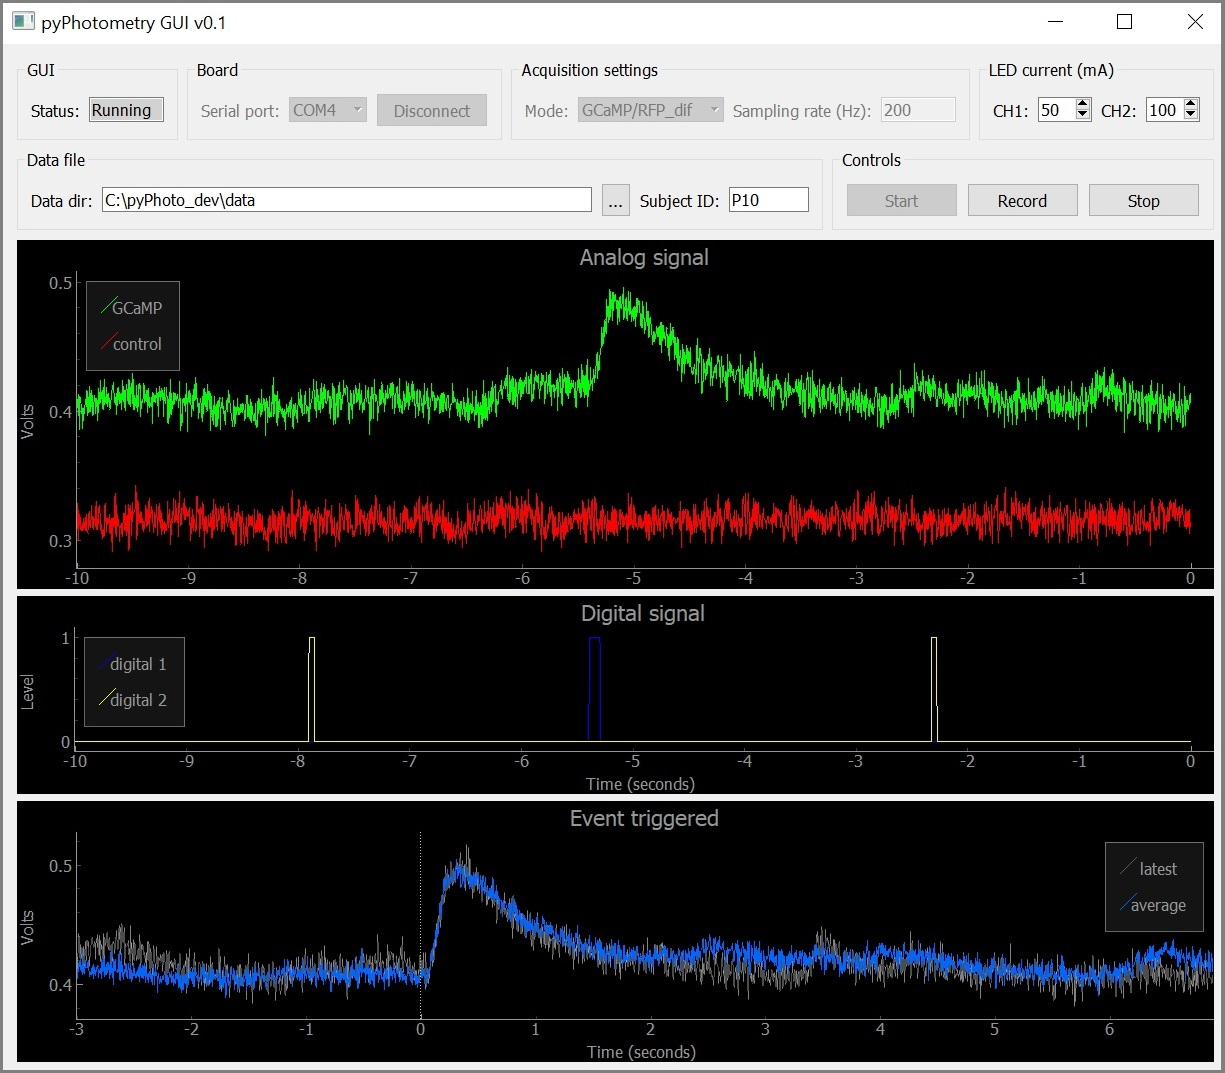
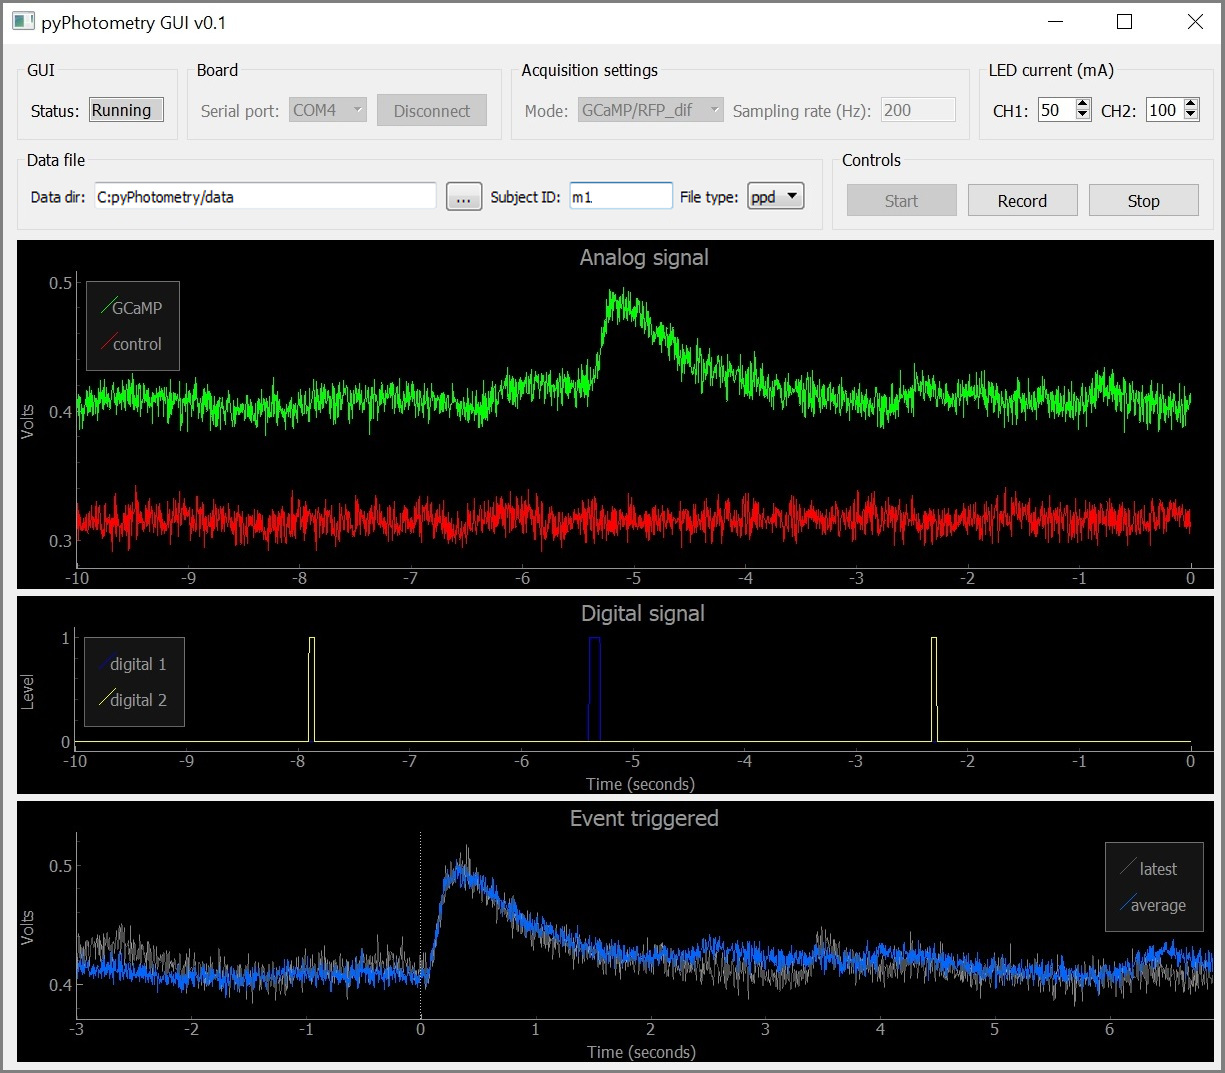
- Version 0.2 documentation.
- Added documentation for .cvs file format and matlab data import.

Changed region(s): [[0.3412, 0.1538, 0.6514, 0.2153], [0.031, 0.1538, 0.2171, 0.2153]]

diff --git a/docs/user-guide/importing-data.md b/docs/user-guide/importing-data.md
@@ -1,10 +1,16 @@
 # pyPhotometry data
 
-pyPhotometry generates binary data files with a  *.ppd* file extension. File names are given by the subject ID and the data and time the recording started, e.g. *m1-2018-08-30-103945.ppd*
+pyPhotometry can save data either as binary files with a *.ppd* file extension or as comma seperated value files with a *.csv* file extension. File names are determined by the subject ID, date and time the recording started, and file type, e.g. *m1-2018-08-30-103945.ppd*
+
+Saving the data as a binary *.ppd* file generates a single file per recording which contains both the acquisition settings and the data.
+
+Saving the data as a *.csv* file generates two files per recording; a *.csv* file containing the data and a *.json* file containing the acquisition settings.
+
+The binary data files are more compact than the .csv files,  a 1 hour recording at 130Hz sampling rate yields a *.ppd* file of ~1.8MB and a *.csv* file of ~8MB.
 
 ## Importing data
 
-If you are using Python for analysis you can import files using the `import_ppd` function in the [data_import](https://bitbucket.org/takam/pyphotometry/src/default/tools/data_import.py?at=default&fileviewer=file-view-default) module:
+If you are using Python for analysis you can import *.ppd* files using the `import_ppd` function in the [data_import](https://bitbucket.org/takam/pyphotometry/src/default/tools/data_import.py?at=default&fileviewer=file-view-default) module:
 
 ```python
 from data_import import import_ppd
@@ -21,10 +27,10 @@ The `import_ppd` function returns a dictionary with the following entries:
 'sampling_rate' # Sampling rate (Hz)
 'LED_current'   # Current for LEDs 1 and 2 (mA)
 'version'       # Version number of pyPhotometry
-'analog_1'      # Raw analog signal 1 (Volts)
-'analog_2'      # Raw analog signal 2 (Volts)
-'analog_1_filt' # Filtered analog signal 1 (Volts)
-'analog_2_filt' # Filtered analog signal 2 (Volts)
+'analog_1'      # Raw analog signal 1 (volts)
+'analog_2'      # Raw analog signal 2 (volts)
+'analog_1_filt' # Filtered analog signal 1 (volts)
+'analog_2_filt' # Filtered analog signal 2 (volts)
 'digital_1'     # Digital signal 1
 'digital_2'     # Digital signal 2
 'time'          # Time of each sample relative to start of recording (ms)
@@ -32,9 +38,16 @@ The `import_ppd` function returns a dictionary with the following entries:
 
 The `high_pass` and `low_pass` arguments provided to the `import_data` function determine the frequency in Hz of highpass and lowpass filtering applied to the filtered analog signals.  To disable highpass or lowpass filtering set the respective argument to `None`.   The filtering applies a 2nd order Butterworth filter in the forward and reverse directions to give a 4th order zero phase filter.
 
-## Data format
+If you are using Matlab for analysis you can import data with the function [import_ppd.m](https://bitbucket.org/takam/pyphotometry/src/default/tools/import_ppd.m?at=default&fileviewer=file-view-default) in the tools folder:
 
-pyPhotometry data files have the following structure:
+```matlab
+data = import_ppd('path\\to\\data_file.ppd')
+```
+The Matlab import function returns a struct with the same fields as the dictionary returned by the Python import function, but without the filtered versions of the analog signals.
+
+## Binary data format
+
+The binary *.ppd* files generated by pyPhotometry have the following structure:
 
 | Start byte    | End byte      | Content     | Format                              |
 |---------------|---------------|-------------|-------------------------------------|
@@ -55,7 +68,7 @@ The first two bytes of the file indicate the size of the header.  The header is 
 'LED_current'        # Current for LEDs 1 and 2 (mA)
 ```
 
-The remainder of the data file contains the analog and digital signals.  Each two bytes chunk of data encodes a 16 bit little endian unsigned integer. The most significant 15 bits of each integer encode one sample of an analog signal and the least significant bit encodes one sample of a digital signal.  Analog channel 1 and digital channel 1 are paired together, and analog channel 2 and digital channel 2 are paired together. Channels 1 and 2 alternate in successive 2 byte chunks.  To convert the analog signals to Volts, multiply them by the 'volts_per_division' value from the header information.
+The remainder of the data file contains the analog and digital signals.  Each two bytes chunk of data encodes a 16 bit little endian unsigned integer. The most significant 15 bits of each integer encode one sample of an analog signal and the least significant bit encodes one sample of a digital signal.  Analog channel 1 and digital channel 1 are paired together, and analog channel 2 and digital channel 2 are paired together. Channels 1 and 2 alternate in successive 2 byte chunks.  To convert the analog signals to volts, multiply them by the 'volts_per_division' value from the header information.
 
 In Python, the steps to convert the data bytes into signals are:
 
@@ -77,7 +90,26 @@ analog_2  =  analog[1::2]
 digital_1 = digital[0::2]
 digital_2 = digital[1::2]
 
-# Convert the analog signals into Volts.
+# Convert the analog signals into volts.
 analog_1 = analog_1 * volts_per_division[0]
 analog_2 = analog_2 * volts_per_division[1]
 ```
+
+## Comma seperated value data format
+
+The *.csv* files generated by pyPhotometry are UTF-8 encoded text files with 4 entries per line, seperated by commas.  Each line contains one sample each from the two analog inputs and two digital inputs, in the order:
+
+```
+Analog_1, Analog_2, Digital_1, Digital_2
+```
+
+Each analog sample is an integer between 0 and 32768 and each digital sample an integer 0 or 1. The first line of the file contains the column names seperated by commas, such that the start of a file might read:
+
+```
+Analog1, Analog2, Digital1, Digital2
+25443,13364,0,0
+25435,13563,0,1
+25442,13759,1,0
+```
+
+The *.json* file containing the acquisition settings is a UTF-8 encoded text file which represents a [JSON](https://www.json.org/) object containing the same information as the  binary data files header.  The *.json* files are human readable if opened in a text editor.  The analog signal values in the *.csv* file can be converted into volts using the *volts_per_division* information in the *.json* file.

diff --git a/docs/user-guide/graphical-user-interface.md b/docs/user-guide/graphical-user-interface.md
@@ -42,9 +42,9 @@ Select aquisition mode from the dropdown menu and specify the sampling rate for 
 
 Time division illumination means that crosstalk between the two signals is determined by both the absorbtion and emission spectra of the two flurophores, rather than just by the emission spectra as with continuous illumination.  For flurophores where the emission spectra overlap significantly (e.g. GCaMP with TdTomato or RCaMP) this can very substantially reduce crosstalk.  
 
-Baseline subtraction makes the signals insensitive to bleed-through of ambient light levels, and reduces the influence of 1/f noise similarly to lock in amplification.
+Baseline subtraction makes the signals insensitive to bleed-through of ambient light levels, and reduces the influence of low frequency noise sources similarly to lock in amplification.
 
-Due to these advantages this aquisition mode is recommended over continuous illumination for two colour measurements.
+Due to these advantages this aquisition mode is recommended over continuous illumination for two colour measurements.  For more information about time division illumination see the pyPhotometry [manuscript](https://www.biorxiv.org/content/early/2018/10/03/434225).
 
 `1 colour time div.` Uses the same acquistion sequence as `1 colour time div.` except that signal 1 and signal 2 both read analog input 1 (i.e. a single photoreciever).  The typical use case is alternating illumination of GCaMP with 470nm and 405nm LEDs to provide a calcium sensitive and a calcium insensitive (isosbestic) signal for use as a movement control. 
 
@@ -60,14 +60,17 @@ Adjust the current for LEDs 1 and 2 over a range of 0 - 100mA.
 
 ### Data file
 
-Specify the directory where data files will be saved and the subject ID.  File names are determined by the subject ID and the date and time the recording started, e.g. `m1-2018-08-30-103945.ppd`.
-
+Specify the directory where data files will be saved, the subject ID, and the data file type.  File names are determined by the subject ID, date and time the recording started, and file type, e.g. `m1-2018-08-30-103945.ppd`.  The file type can be either 'ppd' for a binary data file, or 'csv' for a comma seperated value data file. For more information about file types see [importing data](../user-guide/importing-data.md).
+ 
 ---
 
-### Controls
+### Acquisition
 
 The *Start* button starts data aquisition.  The *Record* button starts recording data to disk, it is greyed out unless a subject ID and a valid data directory are specified.  When recording is started the file name is copied to the clipboard. The *Stop* button stops data aquisition. 
 
+# Default settings
+
+The acquisition mode, LED currents and file type that are selected by default when the GUI is opened can be specified by editing the file *pyPhotometry/GUI/config.py*. 
 
 # Plots
 

diff --git a/docs/user-guide/troubleshooting.md b/docs/user-guide/troubleshooting.md
@@ -1,0 +1,9 @@
+# Troubleshooting
+
+The page details how to fix common problems that can occur when using pyPhotometry.  If you encounter a problem that is not covered on this page, please contact the [google group](https://groups.google.com/forum/#!forum/pycontrol).
+
+### Can't connect to acquisition board.
+
+If the GUI status says 'Connection Failed' when you try to connect to the acquisition board, try resetting the board using the small button labled 'RST' on the Micropython microcontroller.
+
+If the GUI status says 'Firmware Error' when you try and connect, copy the file *photometry_upy.py* from *pyPhotometry/uPY* to the root directory of the acquition board flash drive.  If you still get a firmware error, reset the filesystem by following the instructions [here](https://docs.micropython.org/en/latest/pyboard/tutorial/reset.html#factory-reset-the-filesystem), then re-copy the file *photometry_upy.py* to the board and try again.

diff --git a/docs/index.md b/docs/index.md
@@ -72,3 +72,5 @@ Select the data acquisition mode, for more information see the [GUI user guide](
 Press *Start* to start data acquisition.  To record data enter a subject ID and data directory and press *Record*.
 
 For information on opening data files generated by pyPhotometry see [Importing data](user-guide/importing-data.md).
+
+If you encounter problems take a look at the [troubleshooting](user-guide/troubleshooting.md) page or contact the [google group](https://groups.google.com/forum/#!forum/pycontrol).

diff --git a/docs/about/release-notes.md b/docs/about/release-notes.md
@@ -4,9 +4,16 @@
 
 ## Maintenance team
 
-The current and past members of the pyControl team.
-
 * [Thomas Akam](https://bitbucket.org/takam/) thomas.akam@psy.ox.ac.uk
 
 ## Change log
 
+Version 0.2 - 2018/11/08 -----------------------------------------------
+
+- Added functionality to save data as .csv files.
+
+- Added function for importing *.ppd* files into Matlab.
+
+Version 0.1 -  2018/10/02 ------------------------------------------------
+
+- First release.  Version detailed in Biorxiv manuscript.
